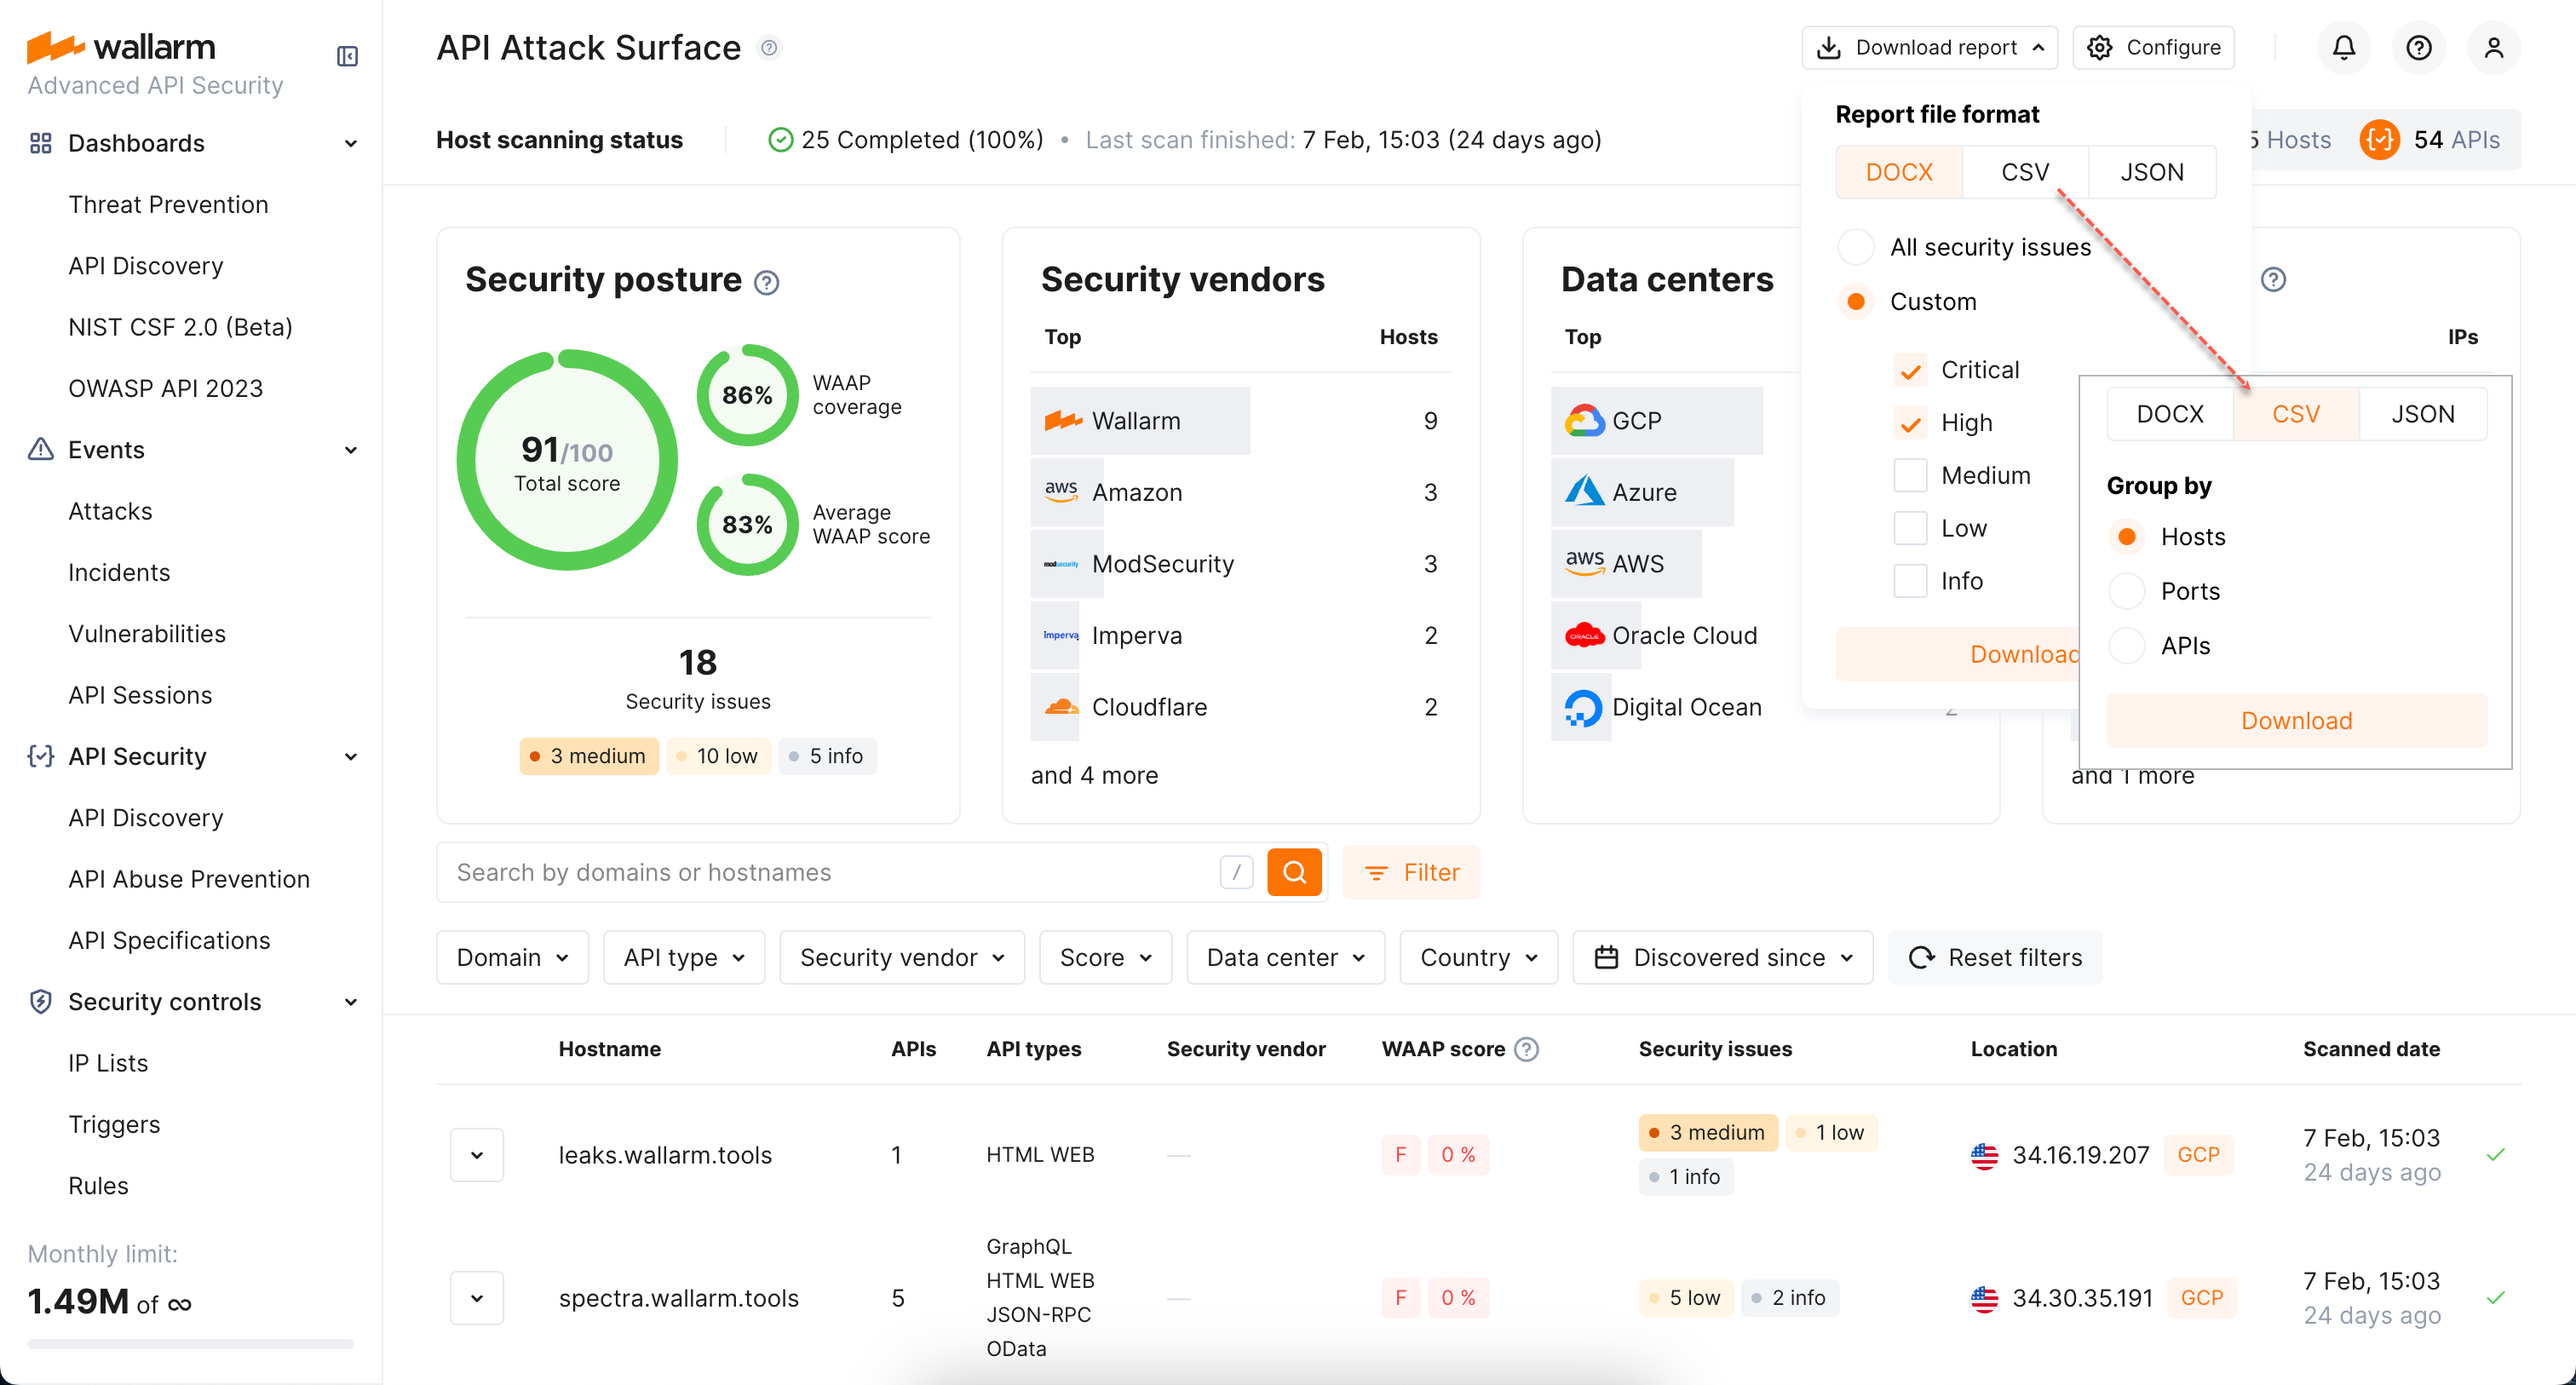
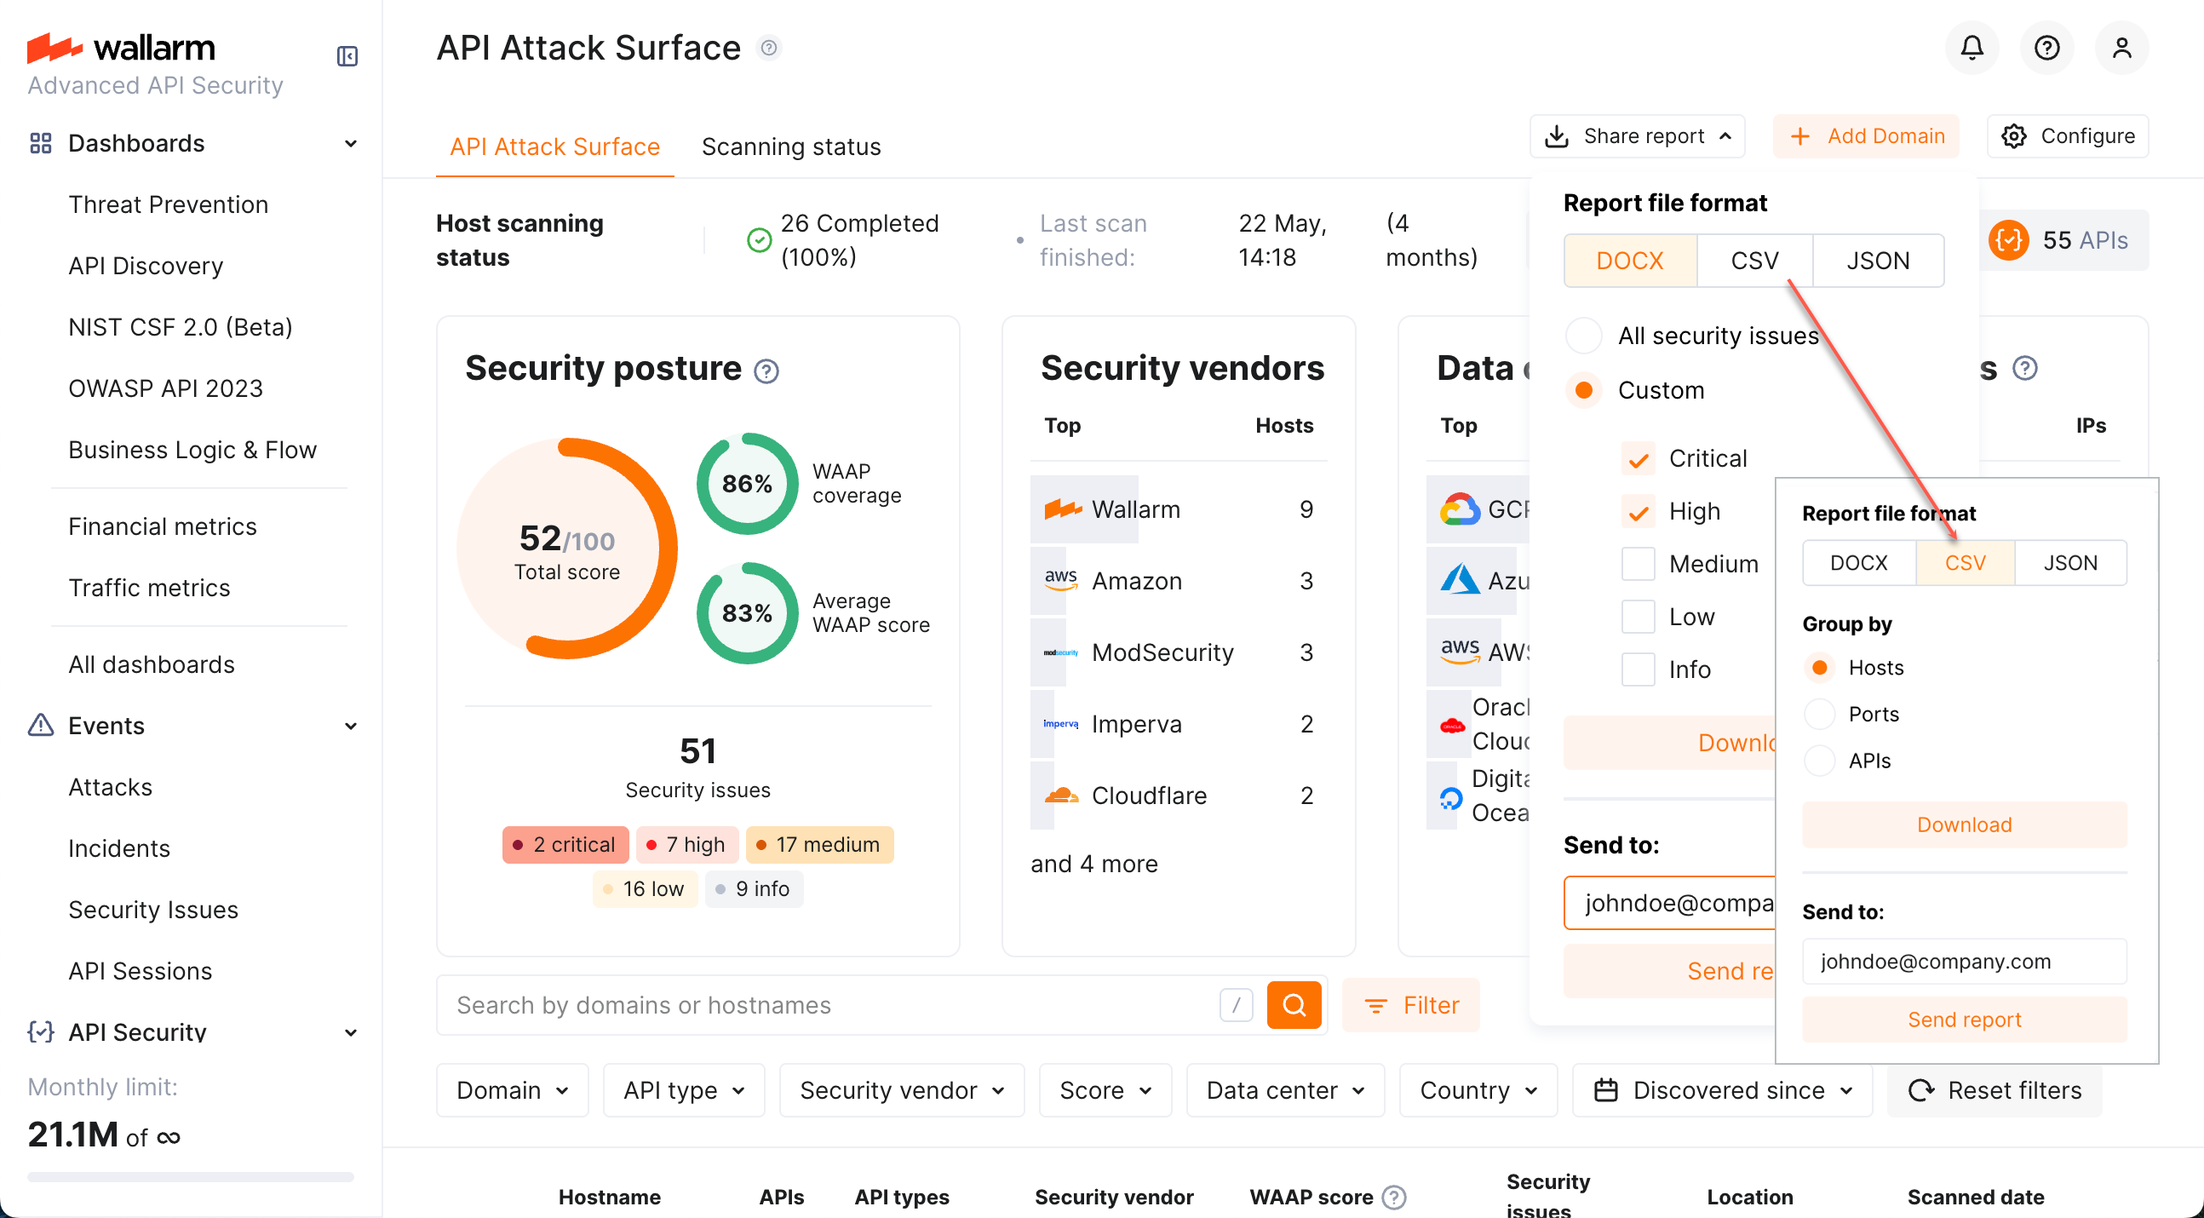
DOCS-3392 API surface report send via email

diff --git a/docs/latest/api-attack-surface/api-surface.md b/docs/latest/api-attack-surface/api-surface.md
@@ -90,7 +90,7 @@ The total score is calculated using a complex proprietary formula that incorpora
 
 ## API attack surface reports
 
-You can get a detailed DOCX report on external hosts and their APIs discovered for your domains. This report will also include information of your choice on the [security issues](security-issues.md) detected for these APIs.
+You can download locally or immediately send to the emails of your choice a detailed DOCX report on external hosts and their APIs discovered for your domains. This report will also include information of your choice on the [security issues](security-issues.md) detected for these APIs.
 
 Besides, you can get information about your API surface in a table view (CSV), organized by:
 
